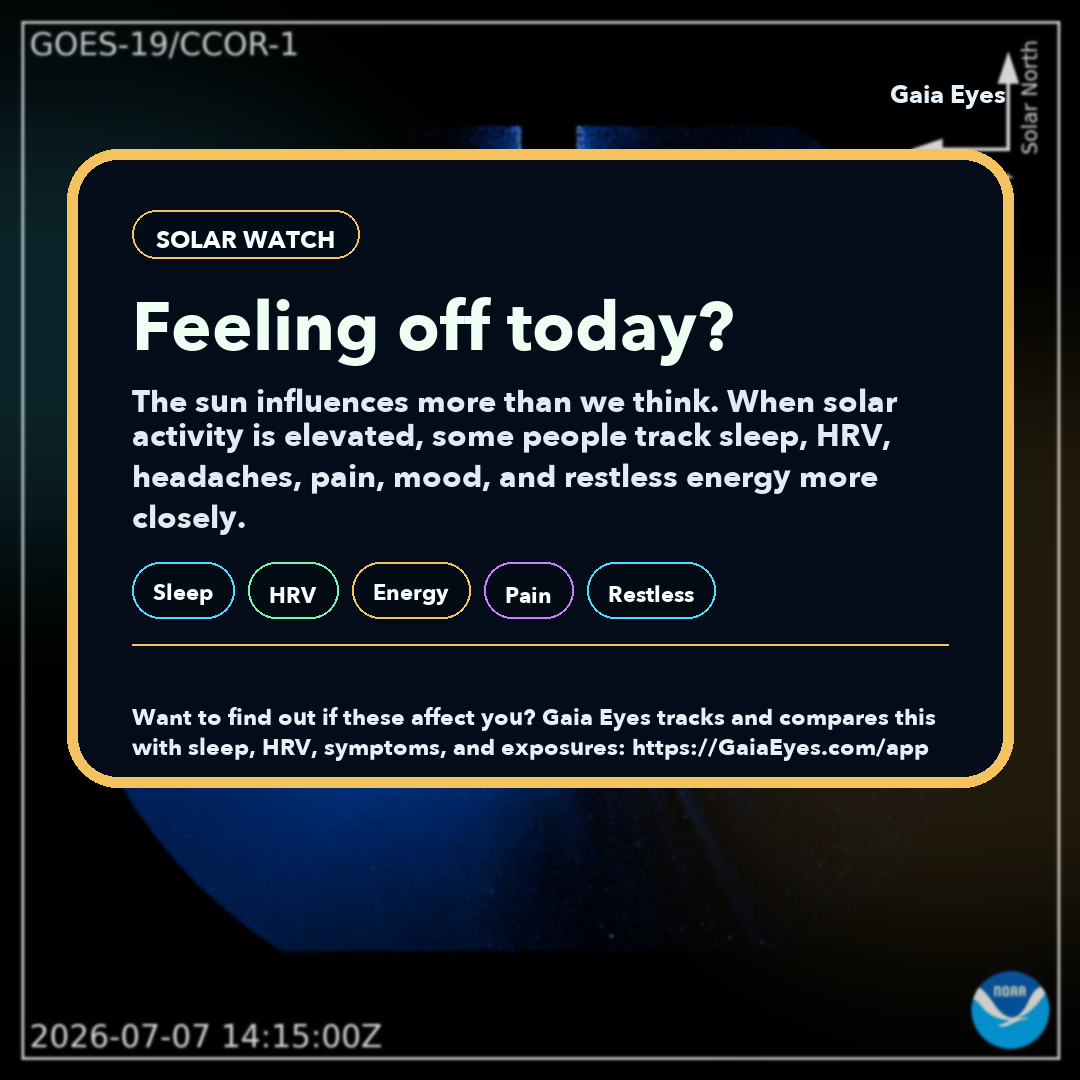
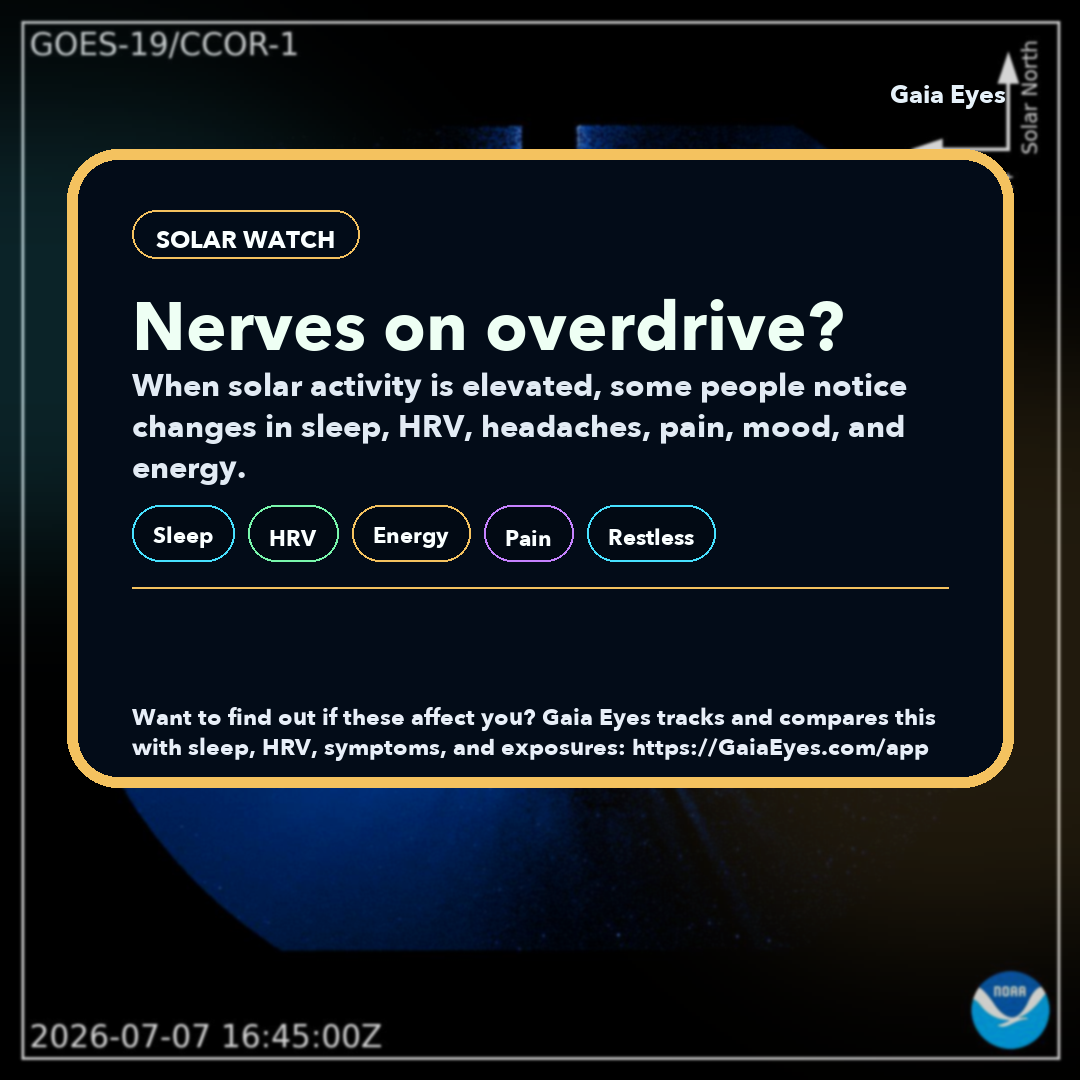
updates to writers

diff --git a/tests/bots/test_social_alerts_shadow.py b/tests/bots/test_social_alerts_shadow.py
@@ -110,10 +110,22 @@ def test_space_alerts_keep_health_pattern_context() -> None:
 
     cme_caption = drafts["cme"]["caption"]
     assert drafts["cme"]["title"] in {hook for hooks in CME_HOOKS.values() for hook in hooks}
+    assert drafts["cme"]["title"] in {
+        "Feeling drained today?",
+        "Moving in slow motion today?",
+        "Battery on empty today?",
+        "Nerves on overdrive?",
+        "Feeling restless today?",
+        "Pain level worse today?",
+    }
+    assert "Feeling off today?" not in cme_caption
     assert "Recovery feeling off?" not in cme_caption
     assert "Body signals look noisier today." not in cme_caption
-    assert "The sun influences more than we think." in cme_caption
-    assert "When solar activity is elevated" in cme_caption
+    assert "The sun influences more than we think." not in cme_caption
+    assert (
+        "When solar activity is elevated, some people notice changes in sleep, HRV, headaches, pain, mood, and energy."
+        in cme_caption
+    )
     assert "Quick context: a CME is a burst of solar material" in cme_caption
     assert "Studies are exploring links between solar activity" in cme_caption
     assert "alongside the CME signal" not in cme_caption

diff --git a/bots/social_alerts/shadow_drafts.py b/bots/social_alerts/shadow_drafts.py
@@ -94,8 +94,8 @@ GEOMAGNETIC_HOOKS = {
     "high": ["Feeling extra wired?", "Restless for no reason?", "Nervous system on alert?"],
 }
 CME_HOOKS = {
-    "watch": ["Sleep feeling lighter?", "Feeling off today?", "Wired but tired today?"],
-    "high": ["Wired but tired today?", "Feeling off today?", "Sleep feeling fragile?"],
+    "watch": ["Feeling drained today?", "Moving in slow motion today?", "Feeling restless today?"],
+    "high": ["Battery on empty today?", "Nerves on overdrive?", "Pain level worse today?"],
 }
 FLARE_HOOKS = {
     "watch": ["Focus feeling patchy?", "Energy coming in waves?", "Brain tabs everywhere?"],
@@ -104,12 +104,12 @@ FLARE_HOOKS = {
 SIGNAL_SUBTITLES = {
     "geomagnetic": "Geomagnetic activity is up. Gaia Eyes watches windows like this alongside sleep, HRV, headaches, focus, and restless energy.",
     "solar_flare": "Solar flare activity is elevated. Some people track windows like this with energy, focus, headaches, and sleep.",
-    "cme": "The sun influences more than we think. When solar activity is elevated, some people track sleep, HRV, headaches, pain, mood, and restless energy more closely.",
+    "cme": "When solar activity is elevated, some people notice changes in sleep, HRV, headaches, pain, mood, and energy.",
 }
 SIGNAL_CAPTIONS = {
     "geomagnetic": "{title}\n\nGeomagnetic activity is up, including Kp/Bz and solar-wind movement. If sleep, HRV, headaches, focus, or restless energy feel different today, this is a useful window to log.\n\n{explainer}\n\n{cta}\n\n{hashtags}",
     "solar_flare": "{title}\n\nElevated solar activity is showing up today. Some people like to track windows like this with energy, focus, headaches, sleep, and recovery markers.\n\n{explainer}\n\n{cta}\n\n{hashtags}",
-    "cme": "{title}\n\nThe sun influences more than we think. When solar activity is elevated, some people track sleep, HRV, headaches, pain, mood, and restless energy more closely.\n\n{explainer}\n\n{cta}\n\n{hashtags}",
+    "cme": "{title}\n\nWhen solar activity is elevated, some people notice changes in sleep, HRV, headaches, pain, mood, and energy.\n\n{explainer}\n\n{cta}\n\n{hashtags}",
 }
 SIGNAL_EXPLAINERS = {
     "geomagnetic": "Quick context: geomagnetic activity means Earth's magnetic environment is changing, often from solar-wind movement. Gaia Eyes watches these windows alongside sleep, HRV, headaches, focus, and symptom patterns.",

diff --git a/tmp/social_alerts_shadow/drafts.md b/tmp/social_alerts_shadow/drafts.md
@@ -2,10 +2,10 @@
 
 - Mode: `shadow`
 - Auto publish: `False`
-- Generated at: `2026-07-07T16:32:10Z`
+- Generated at: `2026-07-07T17:00:58Z`
 - Draft count: `1`
 
-## 1. Feeling off today?
+## 1. Nerves on overdrive?
 
 - Category: `cme`
 - Severity: `high`
@@ -15,9 +15,9 @@
 Post caption copy:
 
 ```text
-Feeling off today?
+Nerves on overdrive?
 
-The sun influences more than we think. When solar activity is elevated, some people track sleep, HRV, headaches, pain, mood, and restless energy more closely.
+When solar activity is elevated, some people notice changes in sleep, HRV, headaches, pain, mood, and energy.
 
 Quick context: a CME is a burst of solar material that can interact with Earth's magnetic field. Studies are exploring links between solar activity, Earth signals, weather patterns, and human health.
 

diff --git a/tmp/social_alerts_shadow/latest-review.md b/tmp/social_alerts_shadow/latest-review.md
@@ -2,10 +2,10 @@
 
 - Mode: `shadow`
 - Auto publish: `False`
-- Generated at: `2026-07-07T16:32:10Z`
+- Generated at: `2026-07-07T17:00:58Z`
 - Draft count: `1`
 
-## 1. Feeling off today?
+## 1. Nerves on overdrive?
 
 - Category: `cme`
 - Severity: `high`
@@ -15,9 +15,9 @@
 Post caption copy:
 
 ```text
-Feeling off today?
+Nerves on overdrive?
 
-The sun influences more than we think. When solar activity is elevated, some people track sleep, HRV, headaches, pain, mood, and restless energy more closely.
+When solar activity is elevated, some people notice changes in sleep, HRV, headaches, pain, mood, and energy.
 
 Quick context: a CME is a burst of solar material that can interact with Earth's magnetic field. Studies are exploring links between solar activity, Earth signals, weather patterns, and human health.
 